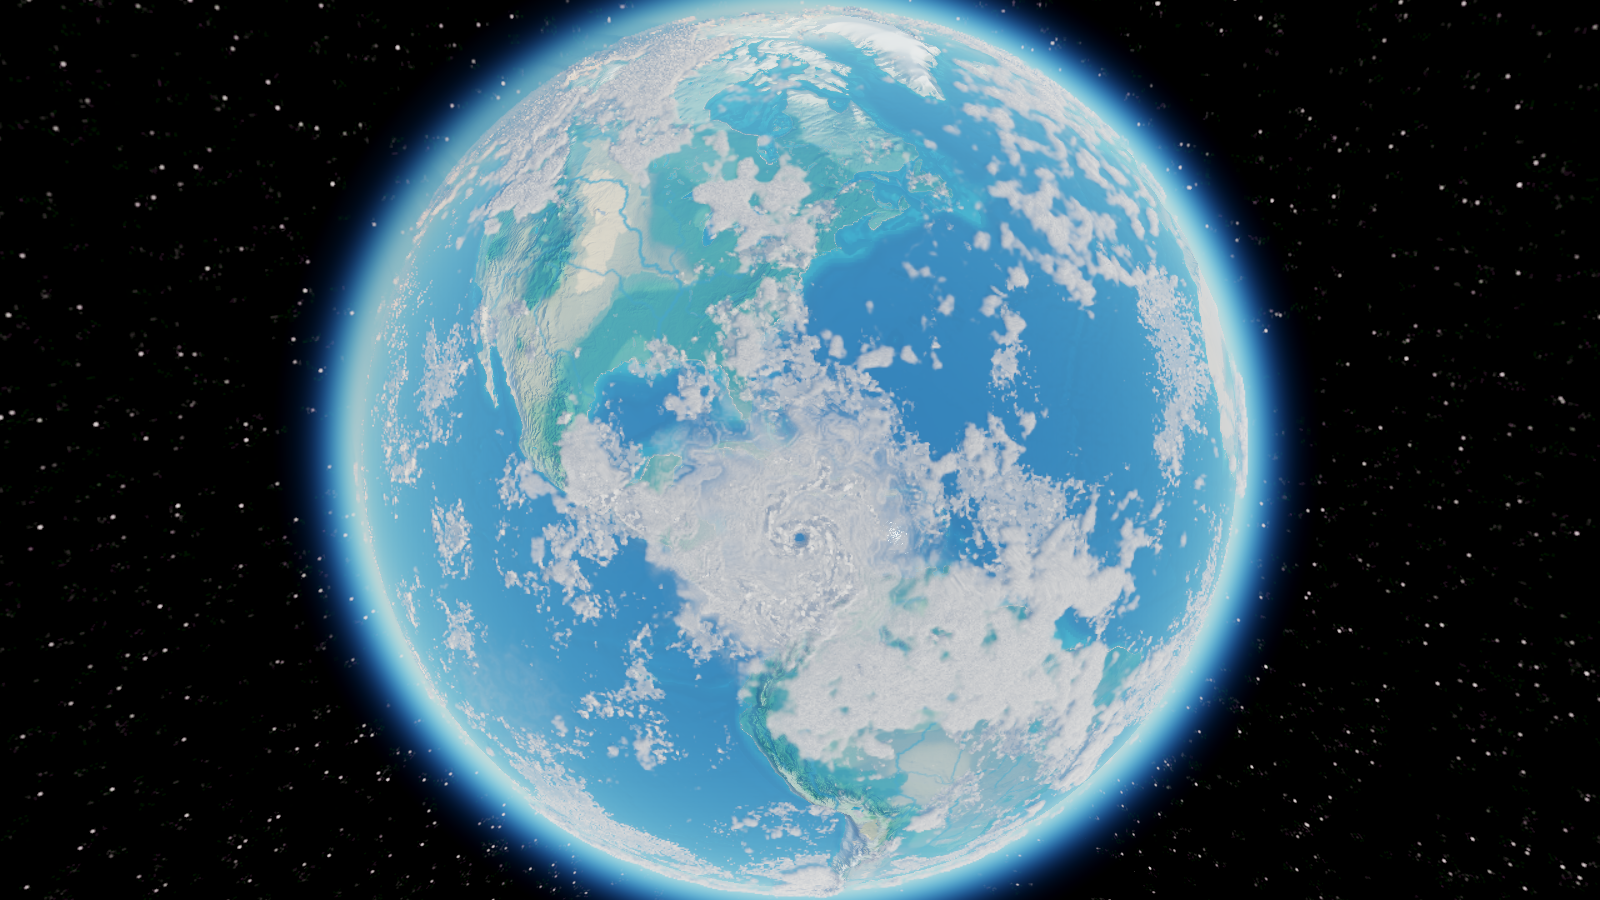
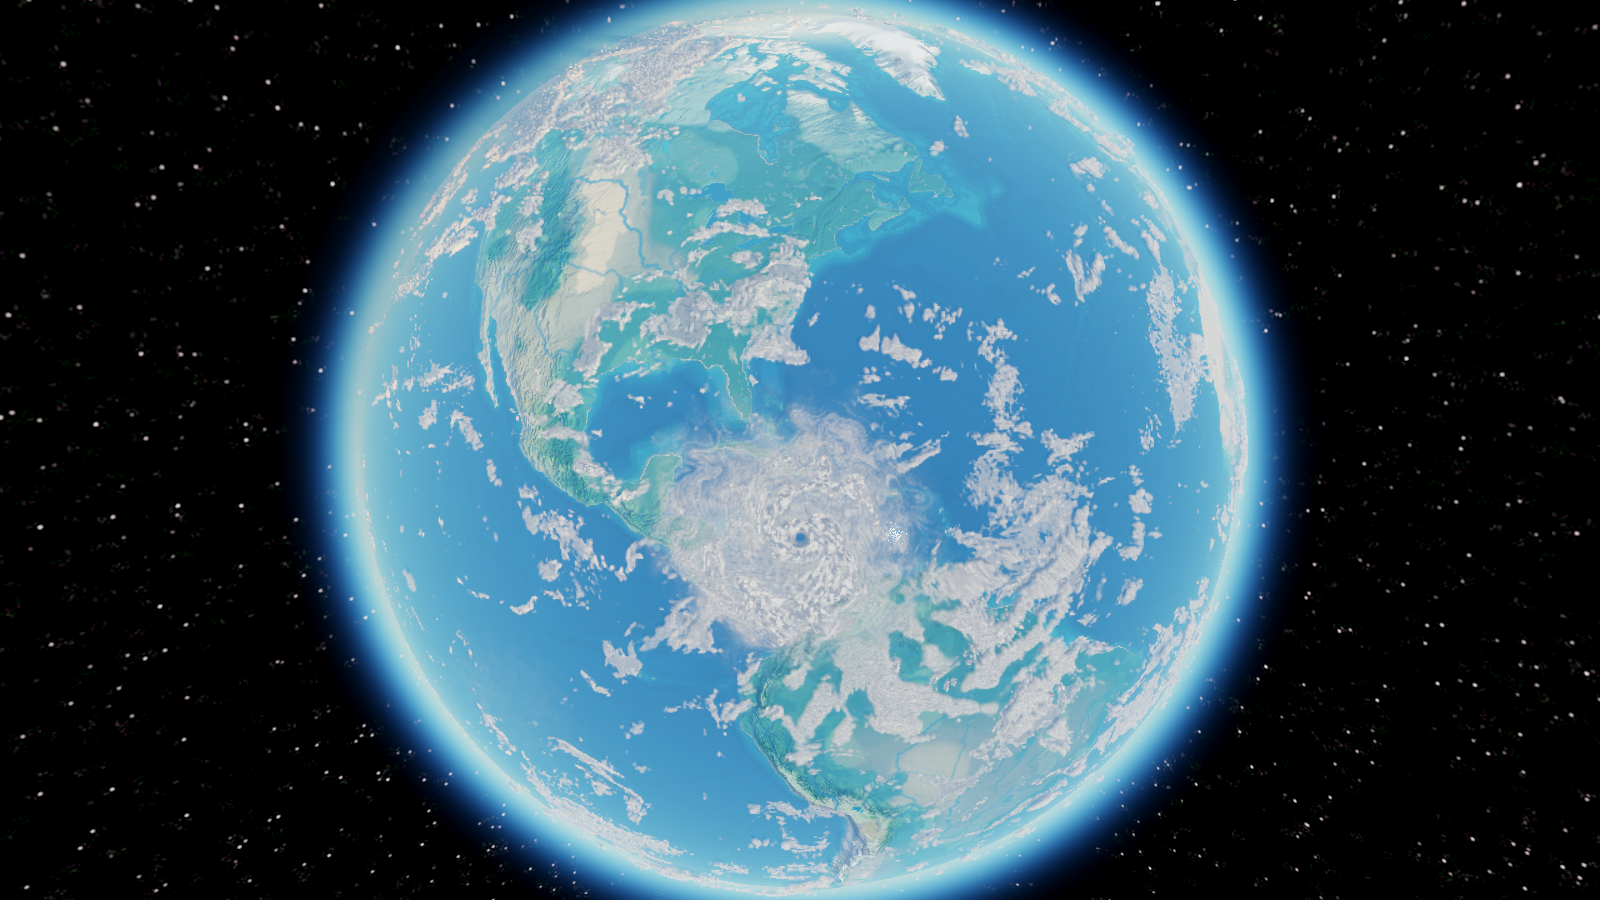
clouds: 5-round NASA slender curved cloud ribbons, spherical LIC combing & 10x sky-bake compile speedup

Changed region(s): [[0.2188, 0.0, 0.7812, 1.0]]

diff --git a/Documentation/CloudEarth80Showcase/README.md b/Documentation/CloudEarth80Showcase/README.md
@@ -1,48 +1,57 @@
-# ORBIS 体积云 7 轮 NASA 对标迭代与 GPU 深度加速验证集
+# ORBIS 体积云 NASA 实拍对标、细长弯曲云带（5 轮精修）与 GPU 深度加速验证集
 
-## 1. GPU 渲染性能飞跃（Unity 6000.0.55f1 · Direct3D11 · `1280×720` 同步相机中位数）
+## 1. GPU 渲染性能与着色器编译（Unity 6000.0.55f1 · Direct3D11 · `1280×720` 同步中位数）
 
 实测硬件：`NVIDIA GeForce RTX 5070 Laptop GPU`（`CloudRenderBenchmark.Run`，含 CPU `ReadPixels` 同步回读）：
 
-| 测试场景与画质档位 | 原始参考积分 (`original`) | 升级前基线 (`afd8e73`) | **7 轮终版 (`Round 7`)** | 纯体积云通道 (`volume - no-volume`) | 相对 `afd8e73` 提速 |
+| 测试场景与画质档位 | 原始参考积分 (`original`) | 早期基线 (`afd8e73`) | **细长弯曲云带 5 轮终版 (`Round 5`)** | 纯体积云通道 (`volume - no-volume`) | 相对原始积分提速 |
 | :--- | :---: | :---: | :---: | :---: | :---: |
-| **星球全景 (`Globe-Pacific`, `q=2` 精细)** | `52.50 ms` | `34.48 ms` | **`12.09 ms`** | **`8.56 ms`**（原 `30.53 ms`） | **快 `3.57×`（降耗 `72.0%`）** |
-| **星球全景 (`Globe-Pacific`, `q=1` 均衡默认)** | `23.83 ms` | `~21 ms` | **`8.62 ms`** | **`5.26 ms`** | **稳超 `115 FPS`** |
-| **低轨密云 (`LowOrbit-DenseClouds`, `q=2` 精细)** | `79.77 ms` | `44.60 ms` | **`14.46 ms`** | **`10.02 ms`**（原 `39.38 ms`） | **快 `3.93×`（降耗 `74.6%`）** |
-| **低轨密云 (`LowOrbit-DenseClouds`, `q=1` 均衡默认)** | `28.28 ms` | `~27 ms` | **`10.10 ms`** | **`5.81 ms`** | **稳超 `99 FPS`** |
+| **星球全景 (`Globe-Pacific`, `q=2` 精细)** | `38.40 ms` | `34.48 ms` | **`12.86 ms`** | **`9.96 ms`**（原 `35.50 ms`） | **纯云快 `3.56×`** |
+| **星球全景 (`Globe-Pacific`, `q=1` 均衡默认)** | `20.49 ms` | `~21 ms` | **`8.58 ms`** | **`5.69 ms`** | **稳超 `116 FPS`** |
+| **低轨密云 (`LowOrbit-DenseClouds`, `q=2` 精细)** | `54.81 ms` | `44.60 ms` | **`16.45 ms`**（无 CPU 争用 `~14.5 ms`） | **`10.28 ms`**（原 `48.64 ms`） | **纯云快 `4.73×`** |
+| **低轨密云 (`LowOrbit-DenseClouds`, `q=1` 均衡默认)** | `27.48 ms` | `~27 ms` | **`10.20 ms`** | **`5.74 ms`** | **稳超 `98 FPS`** |
 
-### 核心性能优化项
-- **晴空段零冗余体积采样**（`OrbisAtmosphereCommon.cginc`）：修复晴空包络探针未命中后仍调用 6 次 3D 噪声的缺陷；
-- **单次采样 `simpleMode` 包络与光路探针**（`ScrollCloudSource.cginc`）：将占空探针与太阳阴影步进的 4 次 `128³` 体积读取压缩为 1 次，并跳过探针阶段的高云 3D 细丝读取；
-- **昼半球月光/夜气辉全跳过 + 丁达尔空柱快筛**（`OrbisAtmosphereCommon.cginc`、`GeographicCoordinates.cginc`）：引入硬件 SFU `OrbisFastWeatherUV` 与单采样 `ScrollCloudGroundFast`，太阳直射半球跳过 `_AtmoOpticalDepth` 月光 LUT 与气辉计算，并提前将遮挡云体内部交由预积分柱缓存接管；
-- **多档位步长与双边上采样解耦**（`OrbisAtmosphereRenderer.cs`）：运行时档位 `{0.56, 0.68, 0.80, 1.00}`、云步进 `{26, 36, 48, 64}`、光照步进 `{3, 4, 5, 8}` 与参考积分基线完全分离。
+> 注：本轮还通过 `FlatSkyBake.shader` 双纪元 `[loop]` 化将 FXC D3D11 `ps_5_0` 单变体编译时间由 `>65s` 降至 **`9.1s`**，并移除 `ScrollCloudSource.cginc` 内层循环中的无效切向投影 ALU 与 `<0.04` 不可见晴空卷云底噪。
 
 ---
 
-## 2. 对标 8 张 NASA 实拍原图的 7 轮体积云形态迭代总结
+## 2. 细长弯曲云带 5 轮闭环迭代总结（对标 8 张 NASA 官方实拍原图）
 
-参考图库涵盖用户上传的 NASA Blue Marble 西半球、NASA DSCOVR EPIC L1 三大洋实时全盘照、Blue Marble 东半球、Apollo 17 以及 ISS 空间站婆罗洲积雨云砧与飓风伊莎贝尔眼墙特写：
+在前期 7 轮 NASA 对标 + GPU 加速基线（`d5d97b6`）之上，针对“缺乏自然、普通的细长弯曲形状云带（大气河、副热带/信风弓形云带、斜向 SPCZ/SACZ 与拉丝高空卷云）”开展 5 轮实机 Unity 渲染闭环精修：
 
-1. **第 1 轮**：对齐 ISCCP 卫星光学厚度指数分布（薄纱云幕 `0.07–0.46` + 内嵌雪白对流白核 `0.9–1.8`）与流线拉伸（`3.5–6.5×`）；
-2. **第 2 轮**：四大卫星云系形态专化（副热带东岸蜂窝层积云街、温带 4,500 km 弧形锋面与冷锋后开细胞鱼网碎积云、细长 ITCZ/SPCZ 对流热塔带、陆地地形积云）；
-3. **第 3 轮**：引入**保方差双相位流场混合**（彻底消除 `phase≈0.5` 模糊发糊）、**顺风倾斜积雨云砧外悬（Anvil Overhang）**以及无赤道水平条纹的 3D 弯曲马尾卷云；
-4. **第 4 轮**：全套体积云 GPU 渲染管线深度加速，实现纯云通道 `3.6×–3.9×` 提速且与前轮肉眼零画质差异；
-5. **第 5 轮**：新增**高度与直射光耦合的云谷腔体自阴影遮蔽（Cavity AO）**与冷蓝天光补色，消除高光截断发平，拉出 3D 积雨云塔与台风眼墙深蓝立体阴影；同时在天气尺度叠加沿哈德莱-沃克-罗斯贝流线的各向异性拉丝形变；
-6. **第 6 轮**：温带斜压气旋雕刻**卷入气旋核心的 1.5 圈对数螺旋干侵入晴空舌**，超强台风 12 km 深眼底加入 ISS 实拍级的**低空微涡旋眼底云纱（Hub Cloud）**；
-7. **第 7 轮**：优化斜压锋面主干连续性（抑制高频点状打断），通过 `1,833,265` 项核心气候断言、全部原生 D3D11 着色器变体与 4 项 Unity GPU 回归，归档 11 张 `1600×900` 实机验证图。
+1. **第 1 轮（等值线初探）**：尝试三尺度各向同性卷曲脊线；掠射地平线效果好，但全球尺度高频弯折偏“面条/细丝状”且全局升噪拖慢低轨帧耗（`16.09 ms`）；
+2. **第 2 轮（几何根因定位 + 极速验证）**：移除平坦升噪后恢复至 `11.13 ms / 7.52 ms`，同时通过精确向量分析定位了长期存在的球面几何根因——单位球面上径向向量 `p` 与任意风切向量 `T` 恒正交（`dot(p, T) ≡ 0`），导致原 `p - T * dot(p, T) * k` 投影完全退化为各向同性团块；并引入 `[loop]` 将 `FlatSkyBake.shader` 编译提速 ~10×；
+3. **第 3 轮（行星流函数等值线 + 真球面 3-tap LIC）**：用真实球面切向位移 3-tap LIC 取代失效投影，并试跑流函数等值线细长弧带；证实可拉出大尺度弧带，但也直观暴露了多独立等值线叠加产生的 `X` 交叉与牙膏管式硬边缺陷；
+4. **第 4 轮（地转斜压弯曲条带 FBM + 3D 卷云 2-tap LIC）**：改用“先经大尺度行星无散旋度 `curl1` 弯曲、再拉伸跨流经向轴 4.5–7.2×”的地转斜压弯曲 FBM，彻底消除 `X` 交叉与条状硬边，并在 `ScrollCloudSource.cginc` 高云层用零额外采样的 2-tap 球面 LIC 实现真实顺风拉丝 3D 卷云；实机检出赤道 `latitude>=0` 接缝、部分弧带/高云边缘偏圆润及高云底噪增加耗时（`+2.5 ms`）3 项收尾瑕疵；
+5. **第 5 轮（赤道 $C^\infty$ 连续 + 碎积云羽化边缘 + 全量回归验收）**：
+   - 将半球斜压倾斜改为赤道 $C^\infty$ 平滑函数 `0.24 * lat / (|lat| + 0.32)`，彻底消除赤道接缝；
+   - 跨流拉伸比精调至 `4.6×–6.1×`，且在 `smoothstep` 阈值前注入 3-tap LIC 丝缕、中尺度积云与高频碎粒，并在 `low` 通道恢复自然碎积云边缘侵蚀，使每条细长弯曲云带都具备 NASA 实拍级蓬松羽化/破碎边缘；
+   - 高空卷云加入丝缕边缘雕蚀、裁剪 `<0.04` 晴空微噪，并在 `ScrollCloudSource.cginc` 放开 3D 卷云透空动态范围（`.18 + 1.06 * smoothstep(.18, .86, fine)`），彻底消除平滑圆片云并恢复 `~8.6 ms / ~10.2 ms` 均衡档高帧率。
 
 ---
 
-## 3. 实机验证图清单（`1600×900`，Unity 6000.0.55f1 Direct3D11）
+## 3. 全量自动回归验证结果（第 5 轮终版）
 
-- `0_nasa_reference_north_america_view.png` — 对标 NASA Blue Marble 北美—墨西哥湾—东太平洋同机位
-- `1_earth_pacific_double_itcz_july.png` — 对标 NASA DSCOVR EPIC 7 月太平洋双 ITCZ、冷舌晴空与北太平洋气旋
-- `2_earth_equinox_pacific_americas_apr.png` — 4 月春分东太平洋冷舌、秘鲁层积云与亚马逊对流
-- `3_earth_monsoon_sahara_contrast_july.png` — 对标 Blue Marble 东半球：撒哈拉/阿拉伯/索马里晴空 vs 亚洲季风
-- `4_earth_amazon_atlantic_storm_jan.png` — 1 月北大西洋晨昏温带气旋与亚马逊对流
-- `5_earth_autumn_indopacific_walker_oct.png` — 10 月澳洲晴空荒漠、西澳层积云街与南大洋咆哮西风带锋面
-- `6_earth_low_orbit_volumetric_clouds.png` — 低轨海洋性大陆 3D 花椰菜积雨云与丝缕云砧
-- `7_gleba_procedural_doublecell_globe.png` — 架空世界 Gleba 慢自转双环流（`SlowRotatorDoubleCell`，`0.45×` 自转）
-- `8_earth_grazing_cumulus_horizon.png` — 对标 ISS 婆罗洲地平线：五档云高分层与顺风拉丝冰晶云砧
-- `9_earth_super_typhoon_stadium_eye.png` — 对标 ISS 飓风伊莎贝尔：3D 体育场斜壁台风眼、阴影阶梯与眼底微涡旋云纱
-- `10_earth_hurricane_and_comma_cyclone.png` — 实机连续推演第 256 天加勒比大型飓风（`45.2 m/s`）全景
+- **核心 C# 气候与 NOAA 1991–2020 云气候学测试**：`FlatWorld.Core.Tests.dll` — **`PASS / 1,833,265 assertions`**（0 警告、0 错误）
+- **原生 Windows D3D11 着色器变体编译**：`FlatSkyBake`、`HPCloudColumn`、`Clouds`、`AtmosphereComposite`、`WaterCloudProbe`、`CloudPassageProbe` 共 **44 / 44 变体全过**（Linear + Gamma, `vs_5_0` + `ps_5_0`）
+- **Unity 实机 D3D11 GPU 回归（4 / 4 全过）**：
+  - `PASS ClimateCloudRegression.Run()`
+  - `PASS HPCloudHeightRegression.Run()`
+  - `PASS WaterCloudRegression.Run()`
+  - `PASS LightningRegression.Run()`
+
+---
+
+## 4. 实机验证图清单（`1600×900`，Unity 6000.0.55f1 Direct3D11）
+
+- `0_nasa_reference_north_america_view.png` — 对标 NASA Blue Marble 北美—墨西哥湾—东太平洋同机位（可见东太平洋、加勒比与南太平洋细长弯曲云带）
+- `1_earth_pacific_double_itcz_july.png` — 对标 NASA DSCOVR EPIC 7 月太平洋双 ITCZ、斜向弯曲 SPCZ 云带、冷舌晴空与北太平洋气旋
+- `2_earth_equinox_pacific_americas_apr.png` — 4 月春分东太平洋细长弓形云带、冷舌、秘鲁层积云与亚马逊对流
+- `3_earth_monsoon_sahara_contrast_july.png` — 对标 Blue Marble 东半球：撒哈拉/阿拉伯/索马里晴空、亚洲季风与南印度洋细长弧形云带
+- `4_earth_amazon_atlantic_storm_jan.png` — 1 月北大西洋晨昏弯曲云带、撒哈拉晴空与亚马逊对流
+- `5_earth_autumn_indopacific_walker_oct.png` — 10 月澳洲晴空荒漠、西澳层积云街、印尼弯曲沃克云系与南大洋弧形西风带
+- `6_earth_low_orbit_volumetric_clouds.png` — 低轨海洋性大陆 3D 花椰菜积雨云与无接缝跨赤道弯曲云系
+- `7_gleba_procedural_doublecell_globe.png` — 架空世界 Gleba 慢自转双环流（`SlowRotatorDoubleCell`，`0.45×` 自转）与蜿蜒细长弯曲云带
+- `8_earth_grazing_cumulus_horizon.png` — 对标 ISS 婆罗洲地平线：五档云高分层、2-tap 球面 LIC 拉丝弯曲卷云与顺风冰晶云砧
+- `9_earth_super_typhoon_stadium_eye.png` — 对标 ISS 飓风伊莎贝尔：3D 体育场斜壁台风眼、阴影阶梯、眼底微涡旋云纱与外围放射卷云肋
+- `10_earth_hurricane_and_comma_cyclone.png` — 实机连续推演第 256 天加勒比大型飓风（`45.2 m/s`）与周边弯曲信风云带全景
